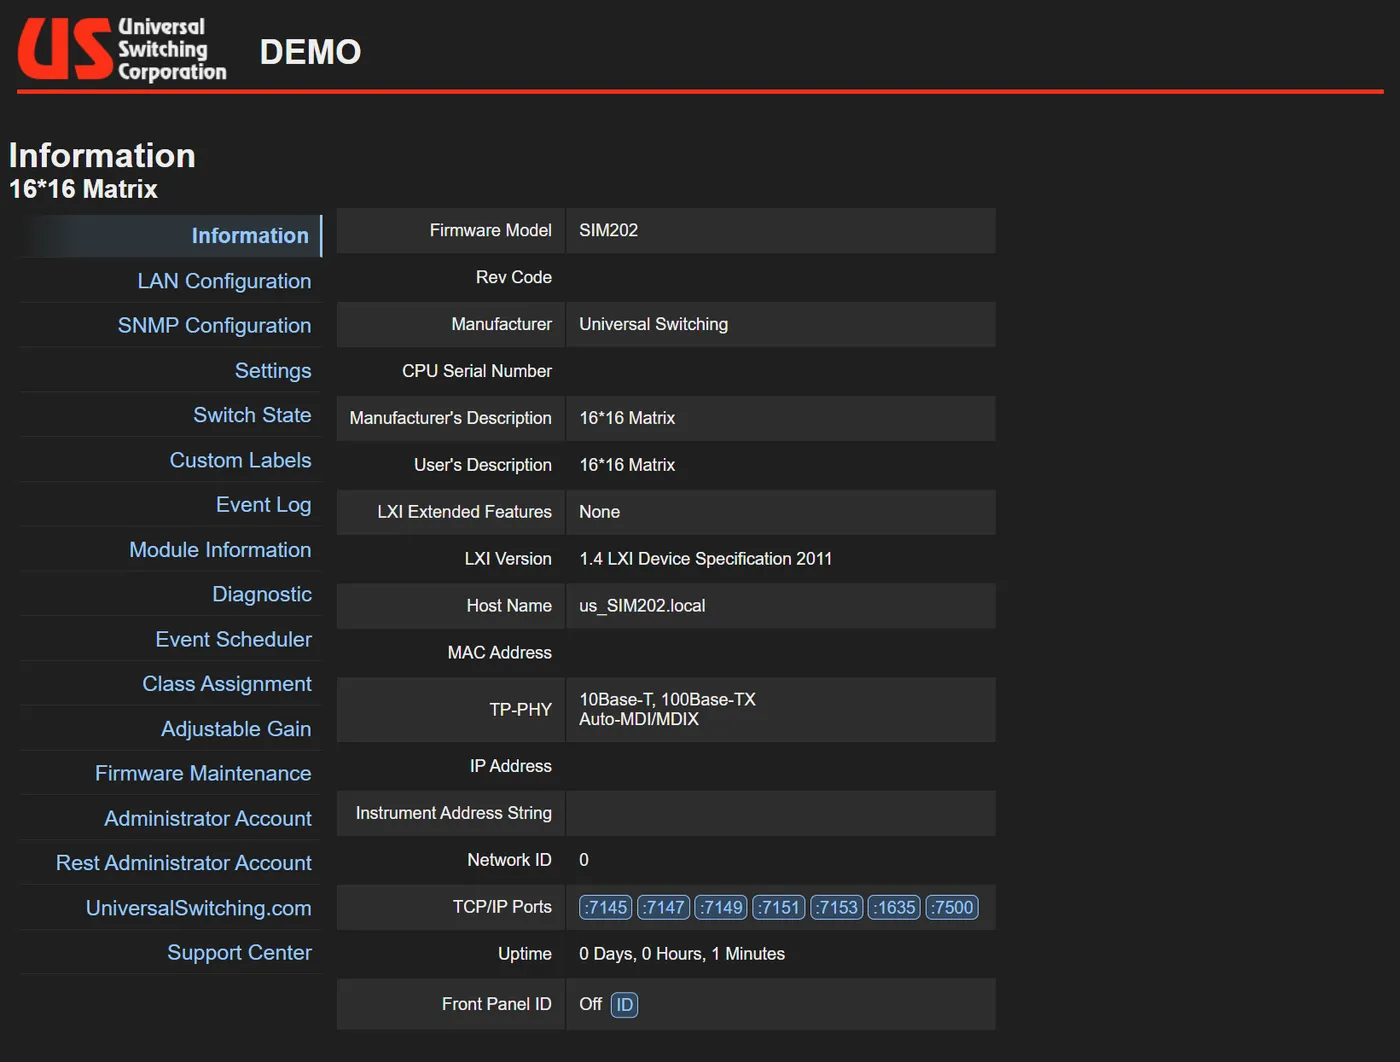
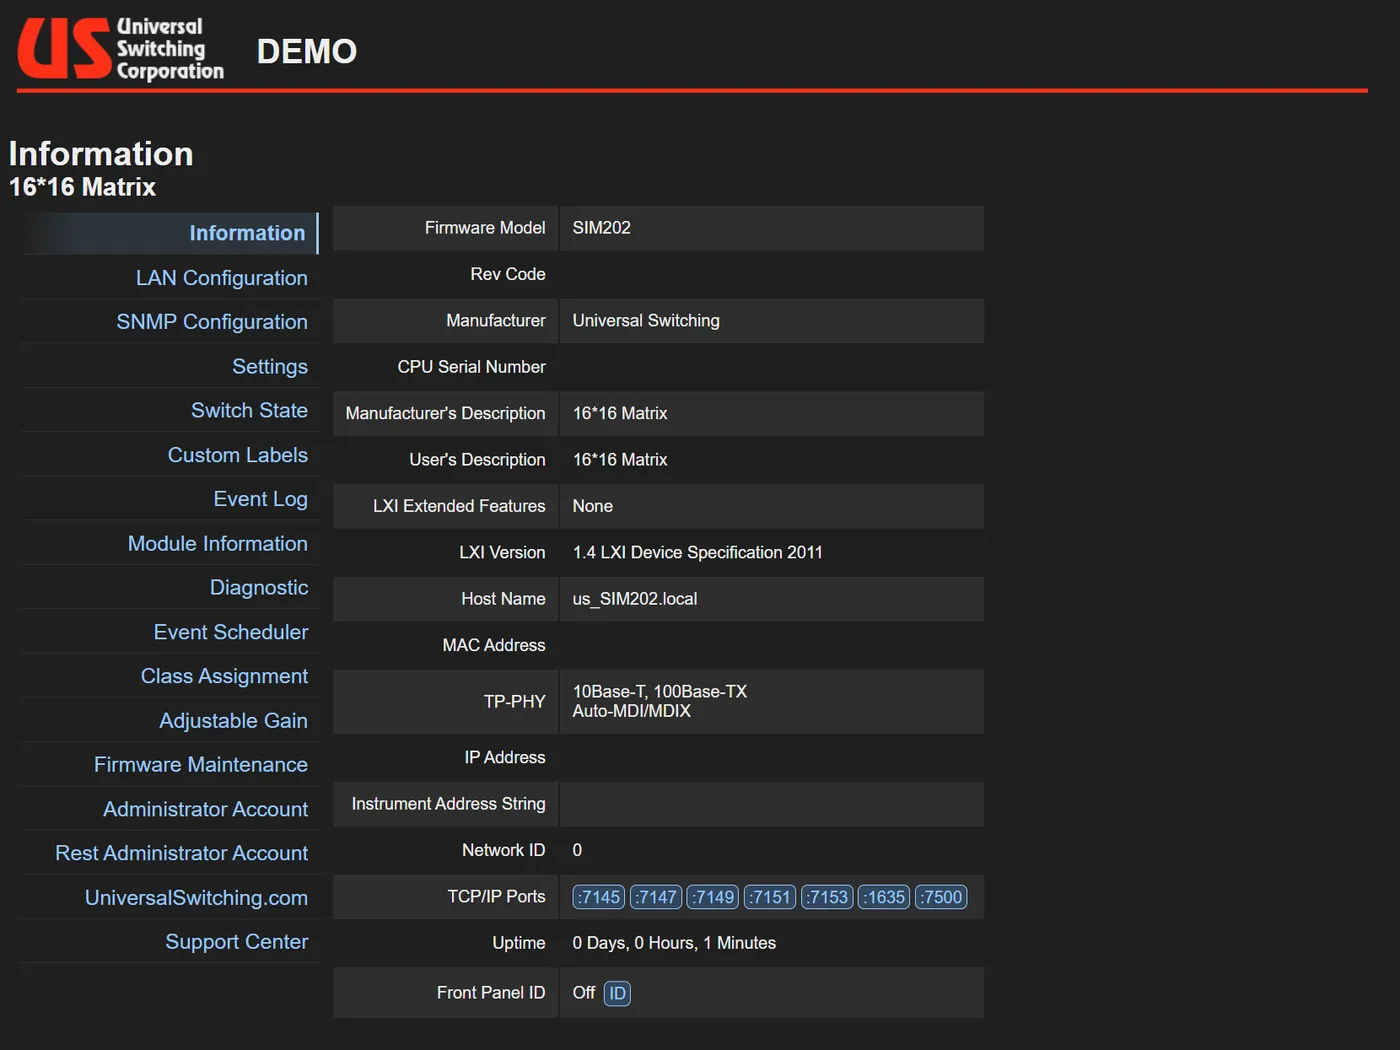
Deploy to wesleyzjones.com on push, Pages redirect mode, automation theme
- New workflow publishes every push to main to the Cloudflare Pages project
  wesleyzjones (skips with a notice until the two secrets exist)
- GitHub Pages workflow gains a redirect mode: set PAGES_REDIRECT_TO and it
  forwards every old github.io path to the domain
- Build target is explicit (DEPLOY_TARGET=github-pages); the default build is
  root-relative with no 404.html for Cloudflare
- Open Graph images point at wesleyzjones.com
- Universal Switching before/after pairs re-rendered to a common 4:3 canvas
- Copy reflects the automation habit: a fourth pillar (Automate the busywork),
  plus intro, about, experience, skills, projects lead and footer
- docs/DEPLOYMENT.md: domain, secrets, redirects and verification steps

diff --git a/react-app/src/content/profile.js b/react-app/src/content/profile.js
@@ -22,7 +22,7 @@ export const profile = {
   /* ── Hero ─────────────────────────────────────────────────────────── */
   headline: 'I build software that ships, from firmware to the app store.',
   intro:
-    'Software engineer with a Bachelor of Science in Software Engineering and a track record that runs from embedded firmware and network systems to full-stack web and mobile products. Currently at Universal Switching, where I lead software delivery on hardware switching platforms, and about to launch DateTrails, a mobile app I designed, built and shipped end to end.',
+    'Software engineer with a Bachelor of Science in Software Engineering and a track record that runs from embedded firmware and network systems to full-stack web and mobile products. Currently at Universal Switching, where I lead software delivery on hardware switching platforms and automate the busywork out of the engineering workflow, and about to launch DateTrails, a mobile app I designed, built and shipped end to end.',
   availability: 'Open to software engineering and technical leadership roles',
 
   /** Short, verifiable facts for the hero strip. */
@@ -40,6 +40,10 @@ export const profile = {
       body: 'I have shipped work at every layer: firmware on switching hardware, the web control interface on top of it, a Postgres backend with row-level security, and a Flutter client in the app stores. I am comfortable being the person who has to make the whole thing work.',
     },
     {
+      title: 'Automate the busywork',
+      body: 'In every job I have had, I found the task that was done twice by hand and built something to do it once: a production process 30% faster at a tiny-home builder, a one-button drawing and firmware-release workflow at Universal Switching, and this site, which deploys itself on every push. Continual improvement is a habit, not a project.',
+    },
+    {
       title: 'Reliability is a feature',
       body: 'At Universal Switching I raised software update reliability by 70% across the product line. DateTrails ships behind a CI gate with static analysis, a coverage floor, and a security harness that tests every database policy.',
     },
@@ -52,7 +56,7 @@ export const profile = {
   /* ── About page ───────────────────────────────────────────────────── */
   about: [
     'I came to software through building physical things. I spent close to a decade in architecture and construction, drafting plans in Revit and AutoCAD, managing residential builds, and later designing production processes for a tiny-home builder, where the automation I introduced sped up production by 30%.',
-    'That background shaped how I write software. I care about specifications that a stranger can follow, systems that fail loudly instead of silently, and finishing the last 10% that turns a prototype into a product. I finished my Bachelor of Science in Software Engineering at Western Governors University in 2024 while working full time, and moved into an engineering role at Universal Switching the same year.',
+    'That background shaped how I write software. I care about specifications that a stranger can follow, systems that fail loudly instead of silently, and finishing the last 10% that turns a prototype into a product. It also left me with a reflex for spotting the task that is done twice by hand and making it happen once. I finished my Bachelor of Science in Software Engineering at Western Governors University in 2024 while working full time, and moved into an engineering role at Universal Switching the same year.',
     'Today I split my time between embedded and web work on switching platforms at Universal Switching and DateTrails, a Flutter and Supabase social app for planning multi-stop dates. DateTrails is the largest thing I have built: product, design, client, backend, payments, moderation, CI and store release, all mine.',
   ],
 
@@ -98,8 +102,9 @@ export const profile = {
         'Overhauled the system’s web-based control interface and shipped numerous new features, with a focus on usability and client-oriented solutions.',
         'Lead technical support for software-related cases, working directly with clients to diagnose and resolve complex hardware and firmware issues.',
         'Partnered with cross-functional teams to isolate and resolve critical hardware and software issues, improving product reliability and quality.',
+        'Built EfficiencyOverload and SageQuest, internal tools that automate the assembly-drawing and firmware-release workflow for the engineering team.',
       ],
-      tags: ['C / C++', 'Embedded firmware', 'Web UI', 'Team lead'],
+      tags: ['C / C++', 'Embedded firmware', 'Web UI', 'Automation', 'Team lead'],
     },
     {
       role: 'Field Technician',
@@ -182,6 +187,6 @@ export const profile = {
     { group: 'Frameworks', items: ['React', 'Flutter', 'Spring Boot', 'Angular', 'Electron', 'Node.js'] },
     { group: 'Platforms & data', items: ['Supabase', 'PostgreSQL', 'AWS', 'Docker', 'Cloudflare Pages', 'MySQL'] },
     { group: 'Embedded & systems', items: ['Embedded firmware', 'IAR Embedded Workbench', 'Networking', 'Hardware diagnostics'] },
-    { group: 'Practices', items: ['CI/CD with GitHub Actions', 'Automated testing', 'Code review', 'Technical leadership', 'Customer escalation'] },
+    { group: 'Practices', items: ['Workflow automation', 'CI/CD with GitHub Actions', 'Automated testing', 'Code review', 'Technical leadership', 'Customer escalation'] },
   ],
 }

diff --git a/react-app/src/styles/pages.css b/react-app/src/styles/pages.css
@@ -158,13 +158,18 @@
 /* ═══════════════════════════════════════════════════════════════════
    Strengths / interests
    ═══════════════════════════════════════════════════════════════════ */
-.pillars { display: grid; grid-template-columns: repeat(3, minmax(0, 1fr)); gap: 0; border-top: 1px solid var(--border); }
-.pillar { padding: 28px 28px 28px 0; margin-right: 28px; border-right: 1px solid var(--border); }
+.pillars { display: grid; grid-template-columns: repeat(4, minmax(0, 1fr)); gap: 0; border-top: 1px solid var(--border); }
+.pillar { padding: 28px 22px 28px 0; margin-right: 22px; border-right: 1px solid var(--border); }
 .pillar:last-child { border-right: 0; margin-right: 0; padding-right: 0; }
 .pillar__num { font-family: var(--font-mono); font-size: 12px; color: var(--accent); margin-bottom: 16px; }
-.pillar__title { font-size: 1.2rem; font-weight: 600; letter-spacing: -0.01em; margin-bottom: 10px; }
-.pillar__body { color: var(--text-2); font-size: 15px; }
-@media (max-width: 800px) {
+.pillar__title { font-size: 1.15rem; font-weight: 600; letter-spacing: -0.01em; margin-bottom: 10px; }
+.pillar__body { color: var(--text-2); font-size: 14.5px; }
+@media (max-width: 1000px) {
+  .pillars { grid-template-columns: repeat(2, minmax(0, 1fr)); }
+  .pillar:nth-child(2n) { border-right: 0; margin-right: 0; padding-right: 0; }
+  .pillar:nth-child(-n+2) { border-bottom: 1px solid var(--border); }
+}
+@media (max-width: 640px) {
   .pillars { grid-template-columns: minmax(0, 1fr); }
   .pillar { border-right: 0; margin-right: 0; padding: 24px 0; border-bottom: 1px solid var(--border); }
   .pillar:last-child { border-bottom: 0; }
@@ -267,9 +272,10 @@
 .compare__title span { font-weight: 400; font-size: 14px; color: var(--text-2); }
 .compare__pair { display: grid; grid-template-columns: repeat(2, minmax(0, 1fr)); gap: 14px; align-items: start; }
 .compare__side { position: relative; border: 1px solid var(--border); border-radius: var(--radius); overflow: hidden; background: var(--bg-sunk); box-shadow: var(--shadow-sm); }
-.compare__side img { width: 100%; height: auto; display: block; }
+/* Pairs are pre-rendered to 4:3 with the screenshot's own background, so both sides are the same size. */
+.compare__side img { width: 100%; height: auto; aspect-ratio: 4 / 3; object-fit: contain; display: block; }
 .compare__label {
-  position: absolute; top: 10px; left: 10px; z-index: 1;
+  position: absolute; top: 10px; right: 10px; z-index: 1;
   font-family: var(--font-mono); font-size: 11px; letter-spacing: .06em; text-transform: uppercase;
   padding: 3px 9px; border-radius: 999px;
   background: color-mix(in srgb, var(--bg-elev) 92%, transparent); color: var(--text-2);

diff --git a/react-app/index.html b/react-app/index.html
@@ -8,19 +8,19 @@
     <meta name="author" content="Wesley Jones" />
     <meta name="theme-color" content="#f7f6f2" media="(prefers-color-scheme: light)" />
     <meta name="theme-color" content="#0f1115" media="(prefers-color-scheme: dark)" />
-    <!-- Social previews need an absolute image URL; this is the GitHub Pages address. -->
+    <!-- Social previews need an absolute image URL; this is the production domain. -->
     <meta property="og:type" content="website" />
     <meta property="og:site_name" content="Wesley Jones" />
     <meta property="og:title" content="Wesley Jones · Software Engineer" />
     <meta property="og:description" content="Embedded firmware, full-stack web and mobile products. Creator of DateTrails." />
-    <meta property="og:image" content="https://wesleyzjones1.github.io/Wesleyzjones1_Portfolio/profile-640.jpg" />
+    <meta property="og:image" content="https://wesleyzjones.com/profile-640.jpg" />
     <meta property="og:image:width" content="640" />
     <meta property="og:image:height" content="640" />
     <meta property="og:image:alt" content="Portrait of Wesley Jones" />
     <meta name="twitter:card" content="summary" />
     <meta name="twitter:title" content="Wesley Jones · Software Engineer" />
     <meta name="twitter:description" content="Embedded firmware, full-stack web and mobile products. Creator of DateTrails." />
-    <meta name="twitter:image" content="https://wesleyzjones1.github.io/Wesleyzjones1_Portfolio/profile-640.jpg" />
+    <meta name="twitter:image" content="https://wesleyzjones.com/profile-640.jpg" />
     <link rel="icon" href="%BASE_URL%favicon.svg" type="image/svg+xml" />
     <script>
       // Apply the saved (or system) theme before first paint to avoid a flash.

diff --git a/react-app/vite.config.js b/react-app/vite.config.js
@@ -3,14 +3,17 @@ import react from '@vitejs/plugin-react'
 import { copyFileSync, existsSync } from 'node:fs'
 import { resolve } from 'node:path'
 
-const repositoryName = process.env.GITHUB_REPOSITORY?.split('/')[1]
-const pagesBase = repositoryName ? `/${repositoryName}/` : '/'
-
 /**
- * GitHub Pages serves 404.html for unknown paths. Copying index.html there
- * lets deep links like /projects/datetrails load the app, which then routes
- * client-side.
+ * DEPLOY_TARGET=github-pages builds for https://<user>.github.io/<repo>/: a
+ * sub-path base plus a 404.html copy of index.html so deep links load.
+ *
+ * Anything else (Cloudflare Pages for wesleyzjones.com, local dev and preview)
+ * builds for the root of a domain with no 404.html; Cloudflare Pages then
+ * serves index.html for unknown routes, which is what a client-side router needs.
  */
+const githubPages = process.env.DEPLOY_TARGET === 'github-pages'
+const repositoryName = process.env.GITHUB_REPOSITORY?.split('/')[1]
+
 function spaFallback() {
   let outDir = ''
   return {
@@ -26,7 +29,7 @@ function spaFallback() {
 }
 
 export default defineConfig({
-  plugins: [react(), spaFallback()],
-  base: process.env.GITHUB_ACTIONS === 'true' ? pagesBase : '/',
+  plugins: [react(), ...(githubPages ? [spaFallback()] : [])],
+  base: githubPages && repositoryName ? `/${repositoryName}/` : '/',
   server: { open: false },
 })

diff --git a/react-app/src/pages/Projects.jsx b/react-app/src/pages/Projects.jsx
@@ -21,7 +21,7 @@ export default function Projects() {
         <div className="container">
           <span className="eyebrow">Work</span>
           <h1 className="display h1">Projects</h1>
-          <p className="lead">Professional work, shipped products, tools I built for myself, and experiments that taught me something. Each one has a short write-up.</p>
+          <p className="lead">Professional work, shipped products, tools that took the busywork out of my own jobs, and experiments that taught me something. Each one has a short write-up.</p>
         </div>
       </section>
 

diff --git a/react-app/src/components/layout/Footer.jsx b/react-app/src/components/layout/Footer.jsx
@@ -15,7 +15,7 @@ export default function Footer() {
           <a href={`mailto:${profile.email}`}><Mail /> Email</a>
           <Link to="/contact">Contact</Link>
         </div>
-        <div className="footer__meta">© {new Date().getFullYear()} · Built with React &amp; Vite</div>
+        <div className="footer__meta">© {new Date().getFullYear()} · Built with React and Vite · Deploys itself on every push to main</div>
       </div>
     </footer>
   )

diff --git a/docs/DEPLOYMENT.md b/docs/DEPLOYMENT.md
@@ -1,0 +1,75 @@
+# Deployment
+
+Every push to `main` runs two workflows:
+
+| Workflow | Publishes to | File |
+|---|---|---|
+| Deploy to wesleyzjones.com | Cloudflare Pages project `wesleyzjones`, served at https://wesleyzjones.com | `.github/workflows/deploy-cloudflare.yml` |
+| Deploy to GitHub Pages | https://wesleyzjones1.github.io/Wesleyzjones1_Portfolio/ (the site, or a redirect to the domain once `PAGES_REDIRECT_TO` is set) | `.github/workflows/deploy-pages.yml` |
+
+The Cloudflare workflow finishes green with a notice until the two secrets below exist.
+
+## One-time setup for wesleyzjones.com
+
+Do these in order. Steps 1–4 are about ten minutes; step 5 waits on DNS.
+
+### 1. Cloudflare API token
+
+1. Cloudflare dashboard → profile icon (top right) → **My Profile** → **API Tokens** → **Create Token** → **Create Custom Token**.
+2. Name: `github-actions-pages`. Permissions: **Account · Cloudflare Pages · Edit**. Account Resources: **Include · your account**. Leave the rest.
+3. **Continue to summary** → **Create Token**. Copy the token now; it is shown once.
+
+### 2. Account ID
+
+Dashboard → **Workers & Pages**. The **Account ID** is in the right-hand column of the overview page (it is also the 32-character segment in the dashboard URL after `dash.cloudflare.com/`).
+
+### 3. GitHub secrets
+
+GitHub repo → **Settings** → **Secrets and variables** → **Actions** → **New repository secret**, twice:
+
+| Name | Value |
+|---|---|
+| `CLOUDFLARE_API_TOKEN` | the token from step 1 |
+| `CLOUDFLARE_ACCOUNT_ID` | the ID from step 2 |
+
+### 4. First deploy
+
+GitHub repo → **Actions** → **Deploy to wesleyzjones.com** → **Run workflow** → **Run workflow**. The first run creates the Pages project and publishes the site. When it finishes, open https://wesleyzjones.pages.dev and click through to a project page to confirm deep links work.
+
+### 5. Attach the domain
+
+1. Cloudflare → **Workers & Pages** → **wesleyzjones** → **Custom domains** → **Set up a custom domain** → enter `wesleyzjones.com` → **Continue** → **Activate domain**. Cloudflare adds the DNS record for you because the domain is in the same account.
+2. Repeat for `www.wesleyzjones.com`.
+3. Wait until both show **Active** (usually a few minutes, up to an hour). https://wesleyzjones.com now serves the site with HTTPS.
+
+### 6. Redirects
+
+| Redirect | Where | How |
+|---|---|---|
+| `www.wesleyzjones.com` → `wesleyzjones.com` | Cloudflare → the `wesleyzjones.com` domain → **Rules** → **Redirect Rules** → **Create rule** | Choose the template **Redirect from WWW to root**, keep the defaults (301, preserve path and query), **Deploy**. |
+| `http://` → `https://` | Cloudflare → the domain → **SSL/TLS** → **Edge Certificates** | Turn on **Always Use HTTPS**. |
+| Old GitHub Pages links → the domain | GitHub repo → **Settings** → **Secrets and variables** → **Actions** → **Variables** → **New repository variable** | Name `PAGES_REDIRECT_TO`, value `https://wesleyzjones.com`. Then **Actions** → **Deploy to GitHub Pages** → **Run workflow**. Every old `github.io/Wesleyzjones1_Portfolio/...` link now forwards to the same path on the domain. Do this only after step 5 shows Active. |
+
+### 7. Update the places that still point at github.io
+
+- GitHub profile → **Edit profile** → **Website**: `https://wesleyzjones.com`
+- LinkedIn contact info and the résumé PDF.
+- The DateTrails site, if it links back here.
+
+### 8. Verify
+
+Open each of these and check the result:
+
+| URL | Expect |
+|---|---|
+| https://wesleyzjones.com/projects/utilityhub | the UtilityHub page loads directly |
+| https://www.wesleyzjones.com/about | lands on https://wesleyzjones.com/about |
+| http://wesleyzjones.com | lands on https://wesleyzjones.com |
+| https://wesleyzjones1.github.io/Wesleyzjones1_Portfolio/projects/datetrails | lands on https://wesleyzjones.com/projects/datetrails |
+
+## Day to day
+
+- Push to `main`: both workflows run; the domain updates in about a minute.
+- Preview a change before pushing: `cd react-app && npm run build && npm run preview`.
+- Roll back: Cloudflare → **Workers & Pages** → **wesleyzjones** → **Deployments** → pick an older deployment → **Rollback to this deployment**.
+- Rotate the token: create a new one (step 1), update the `CLOUDFLARE_API_TOKEN` secret, then delete the old token.

diff --git a/README.md b/README.md
@@ -1,6 +1,6 @@
 # Wesley Jones · Portfolio
 
-Personal portfolio site: React 19 + Vite, plain CSS, no UI framework. Deployed to GitHub Pages from `main` by `.github/workflows/deploy-pages.yml`.
+Personal portfolio site: React 19 + Vite, plain CSS, no UI framework. Every push to `main` deploys it to [wesleyzjones.com](https://wesleyzjones.com) (Cloudflare Pages) and to GitHub Pages; see [docs/DEPLOYMENT.md](docs/DEPLOYMENT.md).
 
 ## Run locally
 
@@ -25,9 +25,14 @@ npm run build      # outputs react-app/dist
 
 **Adding a project:** see [docs/ADDING_A_PROJECT.md](docs/ADDING_A_PROJECT.md). Copy `_template.js`, fill it in, add one import line.
 
-## Routing on GitHub Pages
+## Deployment
 
-The site uses client-side routes (`/projects/datetrails`). The Vite build copies `index.html` to `404.html` so GitHub Pages serves the app for deep links. The base path is derived from the repository name automatically in CI.
+Two workflows run on every push to `main`:
+
+- `.github/workflows/deploy-cloudflare.yml` builds with base `/` and publishes `react-app/dist` to the Cloudflare Pages project `wesleyzjones` (needs the `CLOUDFLARE_API_TOKEN` and `CLOUDFLARE_ACCOUNT_ID` secrets; until then it finishes with a notice). Cloudflare Pages serves `index.html` for client-side routes such as `/projects/datetrails`.
+- `.github/workflows/deploy-pages.yml` builds with `DEPLOY_TARGET=github-pages` (base `/<repo>/` plus a `404.html` copy for deep links). Set the repository variable `PAGES_REDIRECT_TO` to `https://wesleyzjones.com` and it publishes a path-preserving redirect instead of the site.
+
+Setup, redirects and verification steps: [docs/DEPLOYMENT.md](docs/DEPLOYMENT.md).
 
 ## Contact form
 
